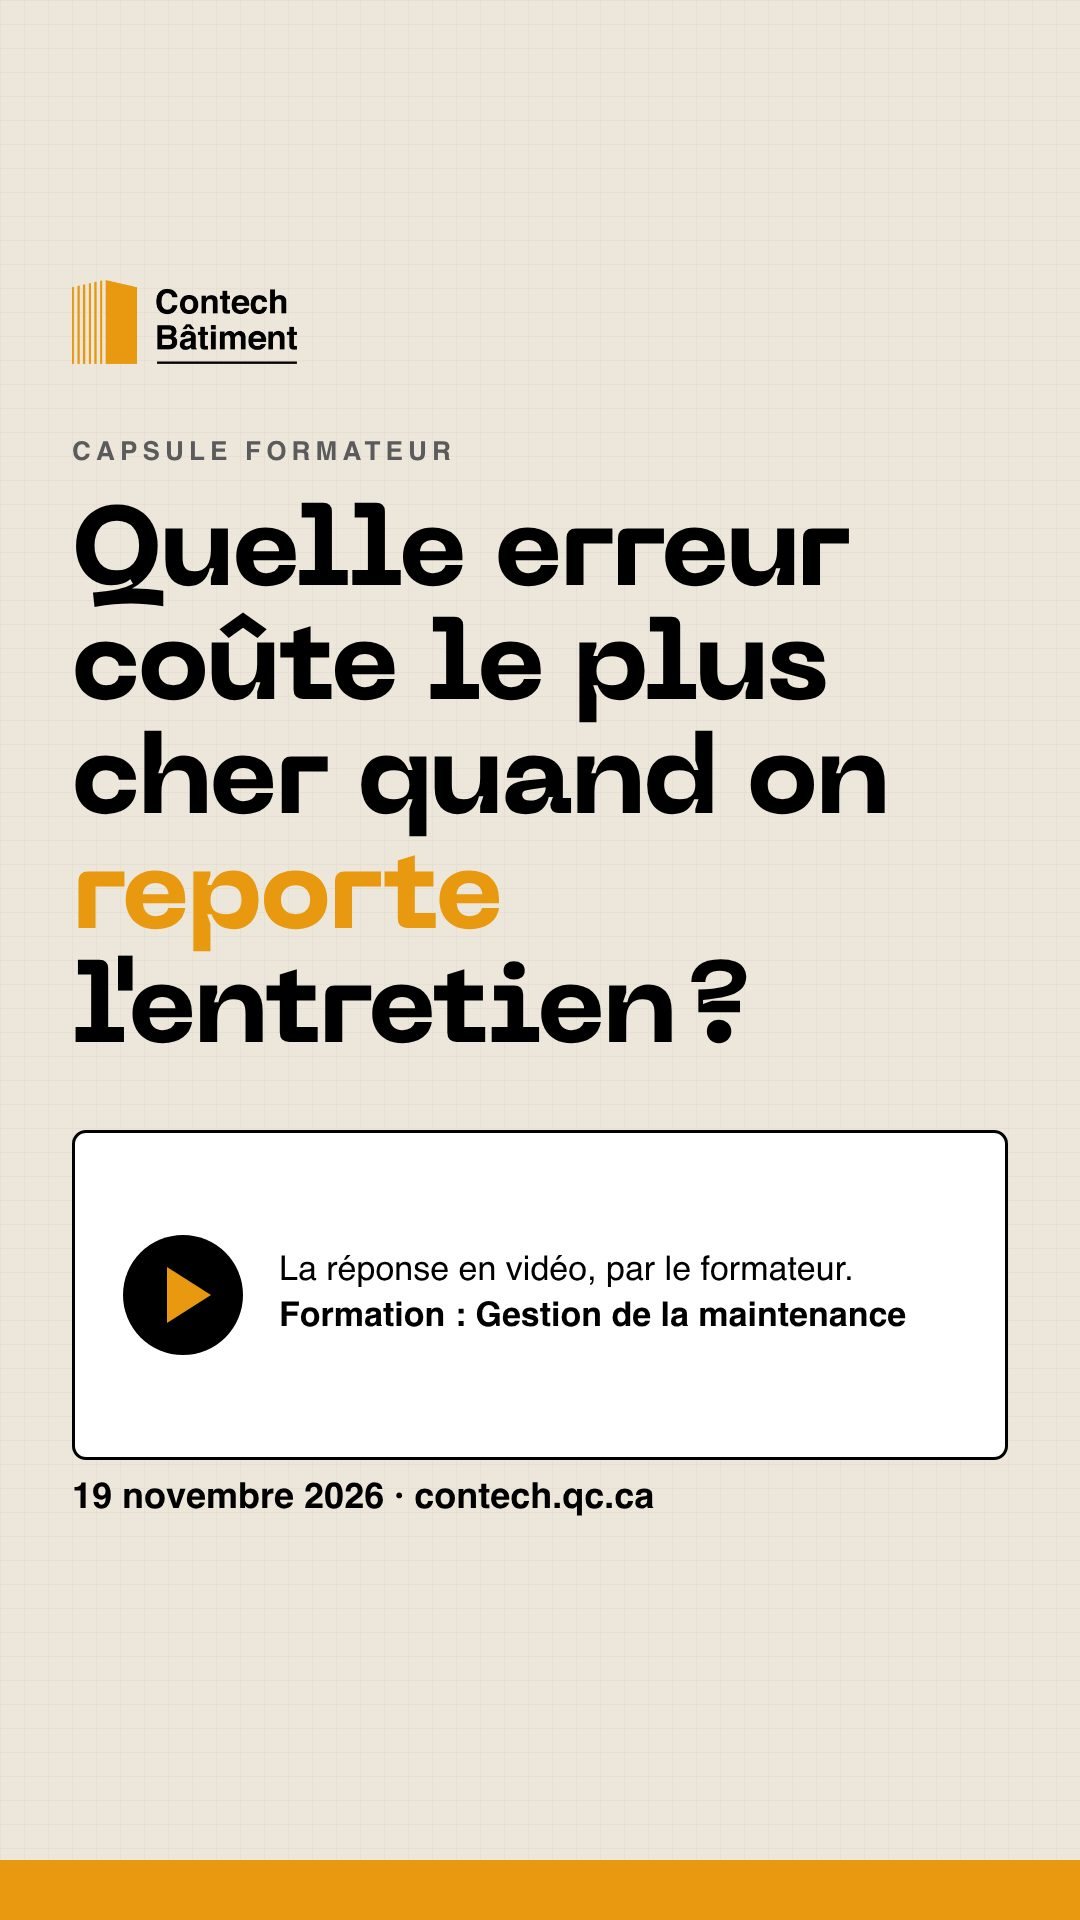
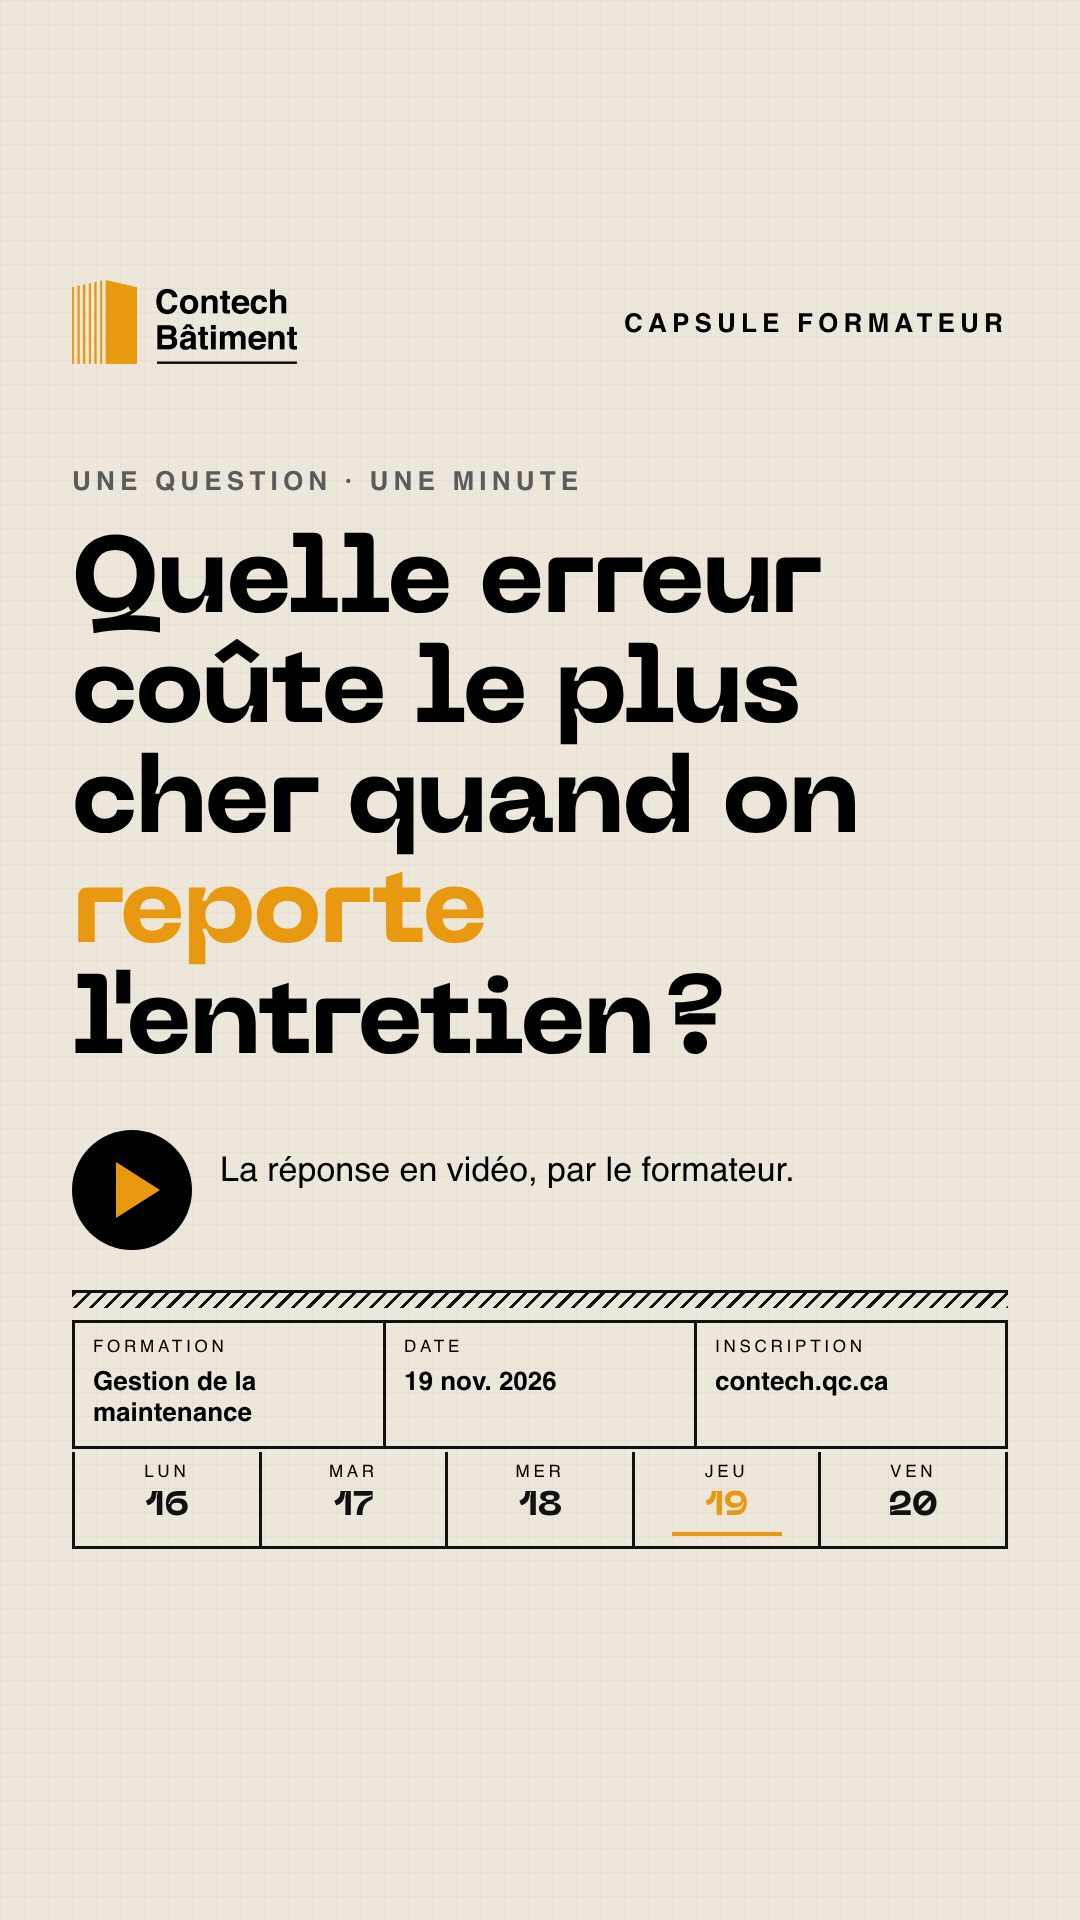
Bilan : quadrillé en fond de toute la présentation, story capsule avec cartouche

diff --git a/bilan/index.html b/bilan/index.html
@@ -118,6 +118,14 @@ h2.sec{font-family:'Contech Machina',sans-serif;font-size:24px;margin:28px 0 14p
 .cd{margin:0;font-size:11px;letter-spacing:.2em}.cn{margin:2px 0 0;font-family:'Contech Machina',sans-serif;font-weight:700;font-size:26px}.cn.hl{color:var(--jaune)}.cart-c .ul{display:block;width:44px;height:3px;background:var(--jaune);margin:2px auto 0}
 .ph{border-top:0;border:2px solid #111;border-radius:0;background:#fff}.ph .when{color:#111;letter-spacing:.2em}
 @media (max-width:640px){.cart-t td{display:block;border-bottom:0}.cart-t tr td:last-child{border-bottom:2px solid #111}.cn{font-size:20px}}
+/* Quadrillé partout (fond papier d'Alexane) */
+:root{--creme:#ECE6DB}
+html,body{background-color:#ECE6DB;background-image:linear-gradient(#E5DFD4 1px,transparent 1px),linear-gradient(90deg,#E5DFD4 1px,transparent 1px);background-size:24px 24px;background-attachment:fixed}
+.top{background:rgba(236,230,219,.92)}
+.band{background:#fff}
+.card,.tile,.reco,.ph,.cib,.lev{box-shadow:0 1px 0 rgba(17,17,17,.04)}
+.lev,.vid{background:#F5F1EA}
+footer{background:transparent}
 </style></head><body>
 <div class="top"><img src="img/logo.png" alt="Contech Bâtiment" class="logo"><nav><a href="#resume" data-p="resume">Résumé</a><a href="#quebec" data-p="quebec">Québec</a><a href="#montreal" data-p="montreal">Montréal</a><a href="#actions" data-p="actions">Actions 2026</a><a href="#constats" data-p="constats">Bien / moins bien</a><a href="#formations" data-p="formations">Formations</a><a href="#recos" data-p="recos">Recos 2027</a><a href="#planif" data-p="planif">Planif 2027</a><a href="#croissance" data-p="croissance">Croissance 2027</a><a href="#marque" data-p="marque">Kit de marque</a></nav></div>
 <main><section id="resume" class="pg base has-hero"><header class="band" style="--hero:url(img/qc-plancher.jpg)"><p class="sur">Bilan marketing · Expos Contech 2026</p><h1 class="titre">Deux Expos <em>en hausse</em>, et une leçon claire pour 2027</h1></header>
